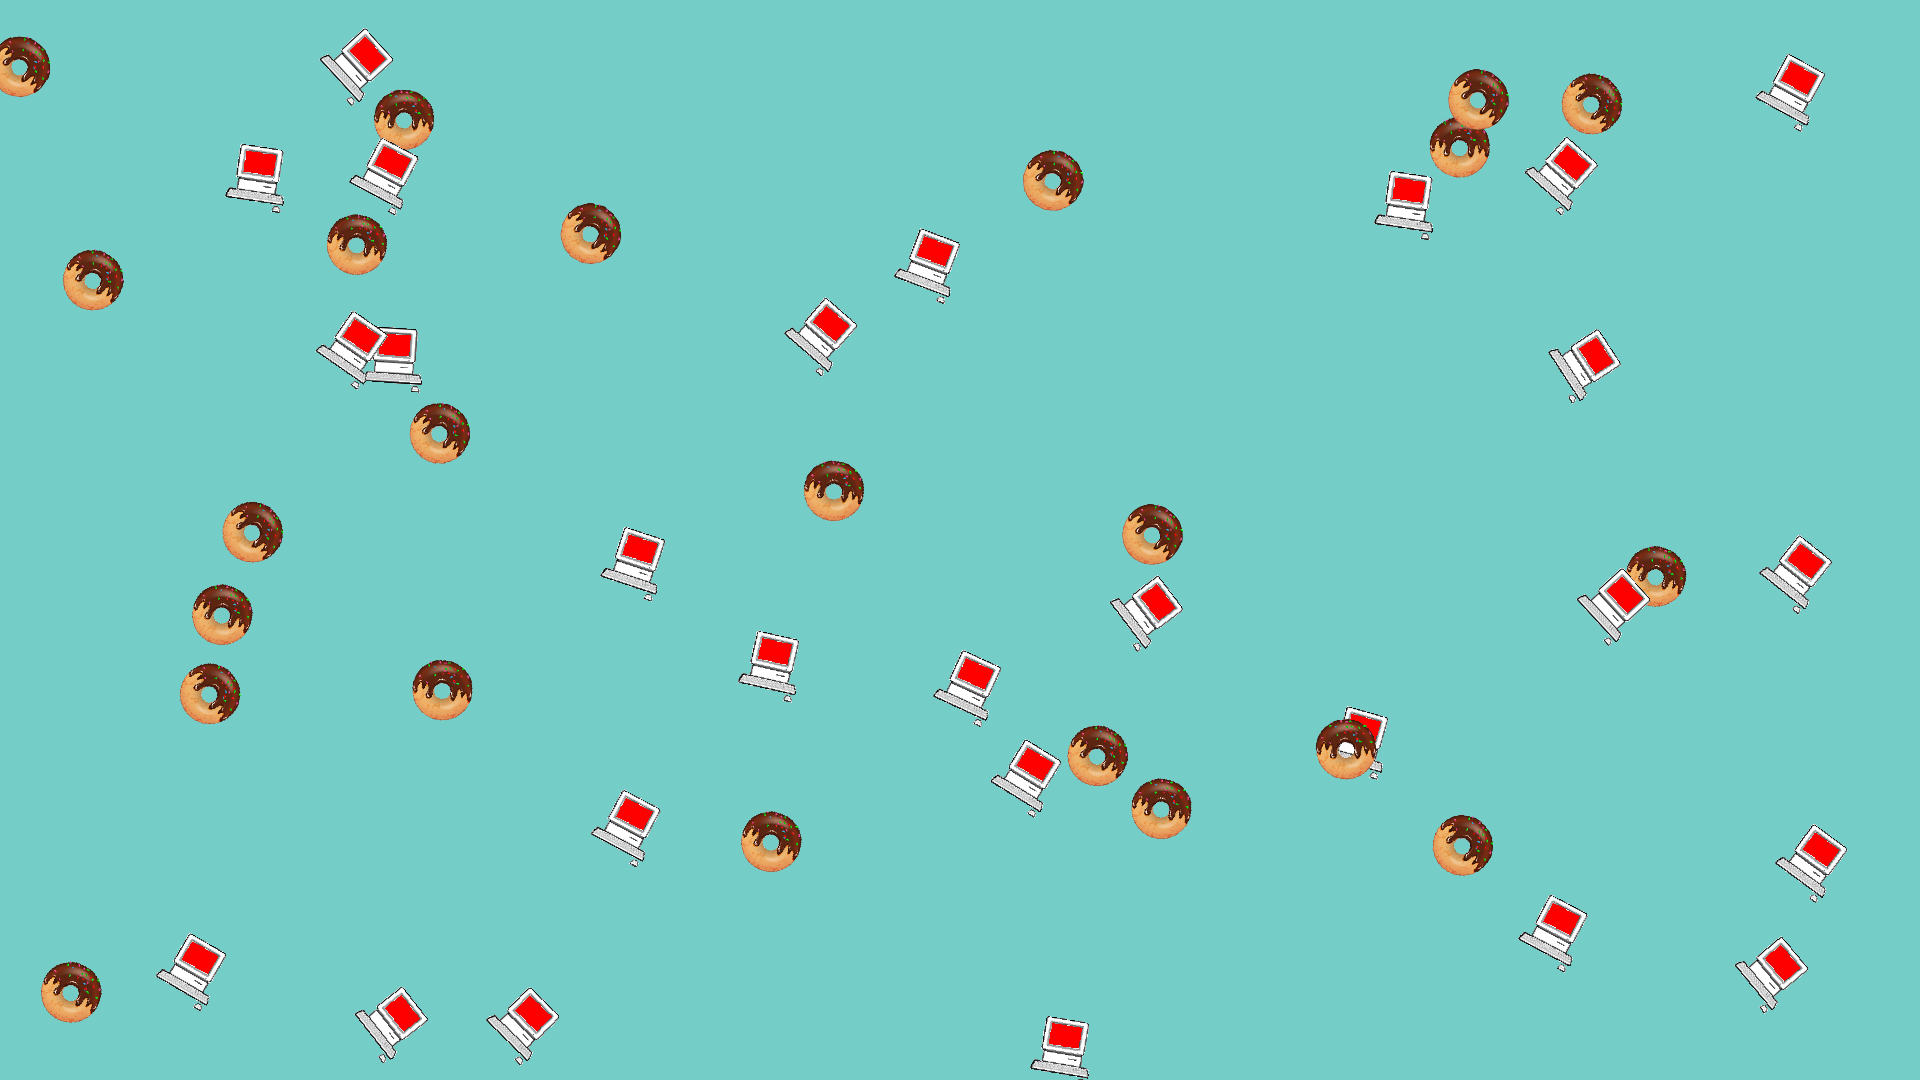
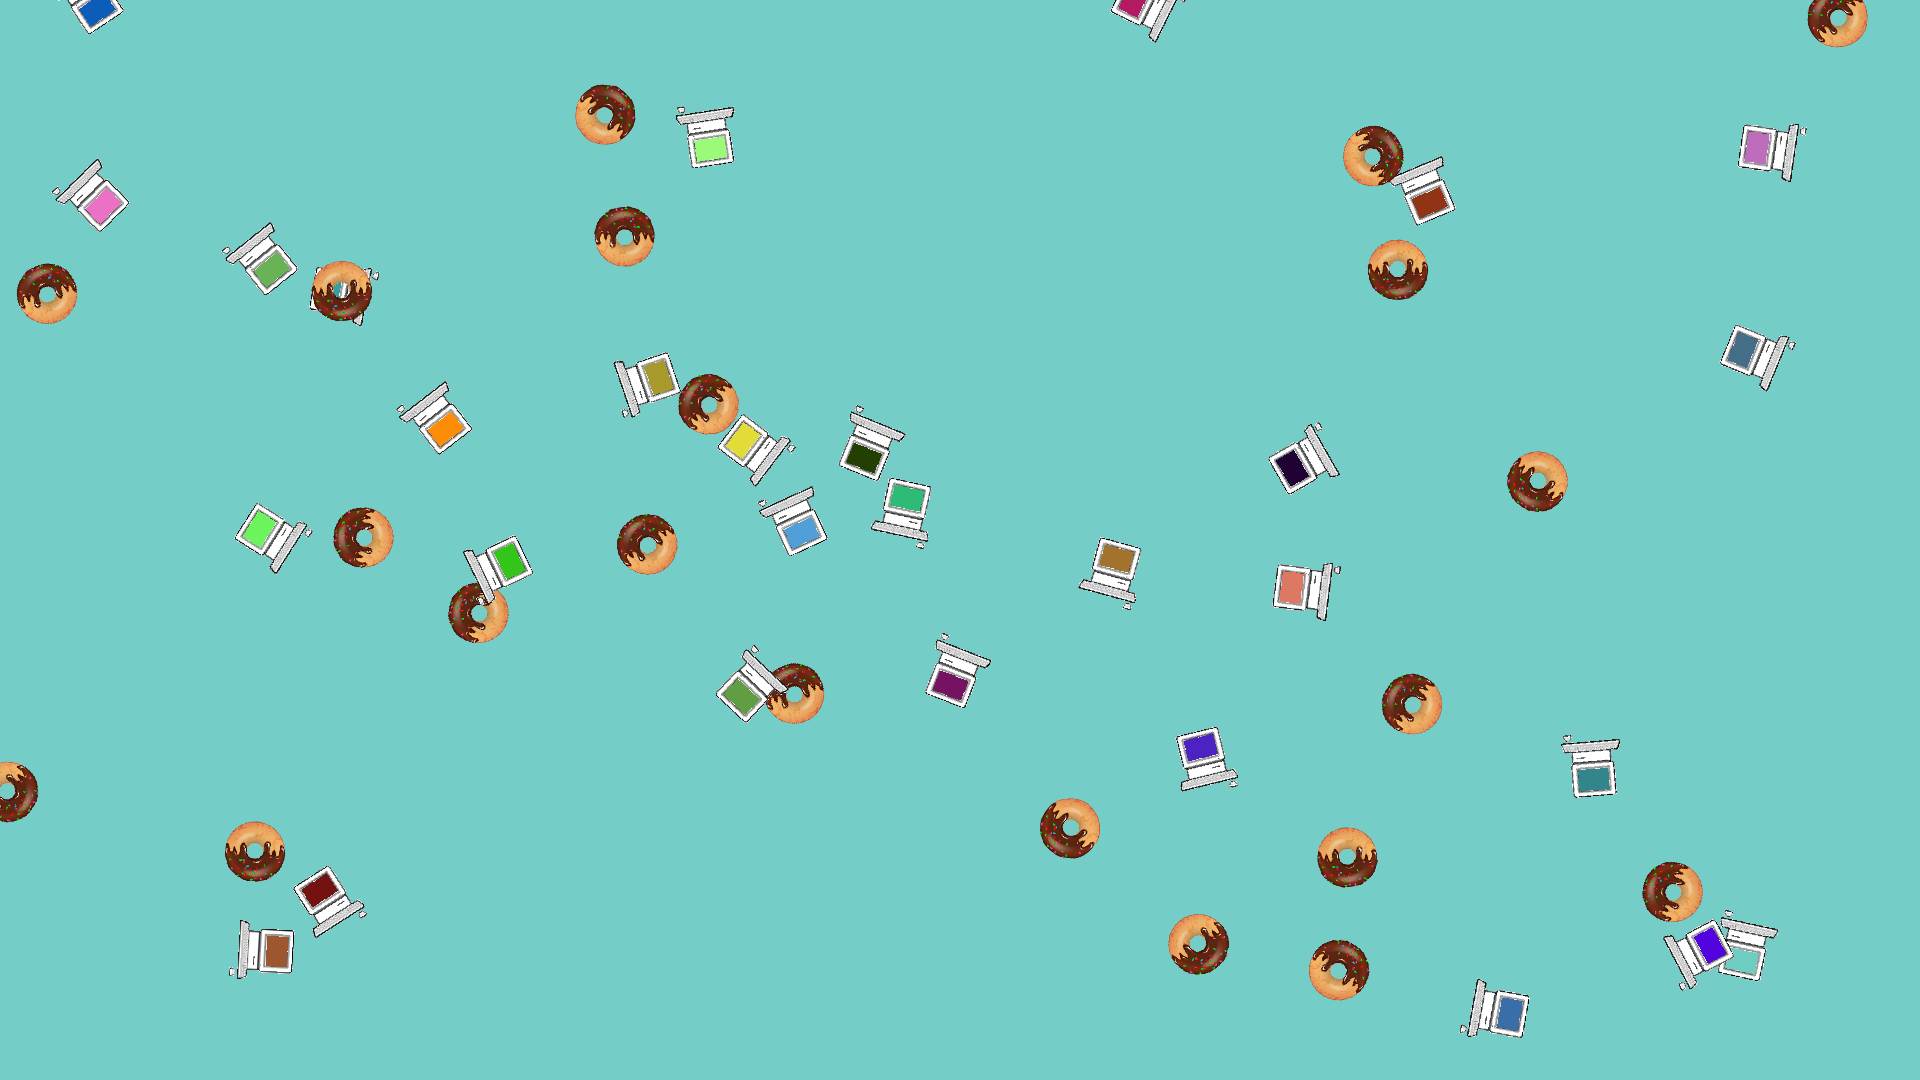
some quality changes to bg generation

diff --git a/site/Spelling-Bee.html b/site/Spelling-Bee.html
@@ -23,7 +23,7 @@
 
 <div class="content">
 <div id="spellingbee">
-Rules:<br><p>Using the below letters (mandatory + 6 optional), make as many words as you can. Words must be at least 5 letters long and must contain the mandatory letter. No letters can be used except the 7 given, but those 7 may be used any number of times per word. To score yourself, give yourself 1 point for every word and 2 additional points for each word that uses all 7 letters. Click the button to view answers. The rules of this game were shamelessly stolen from Frank Longo at the NYT Magazine. Puzzle is generated fresh every day (barring server failures)</p><br>D+SARGLU<br>Total Words: 18<br>Three Point Words: 2<br><br><button onclick='document.getElementById("answer").innerHTML="Total Words: 20<br>Three Point Words: 2<br>SLUGGARD<br>SLUGGARDS<br>Non-three-point-words:<br>DRAGS<br>DRUGS<br>DULLARD<br>DULLARDS<br>DULLS<br>GLADS<br>GRADS<br>GRADUAL<br>GUARD<br>GUARDS<br>LAGGARD<br>LAGGARDS<br>LARDS<br>LAUDS<br>RADAR<br>RADARS<br>SALAD<br>SALADS<br>"'>See answer</button>
+Rules:<br><p>Using the below letters (mandatory + 6 optional), make as many words as you can. Words must be at least 5 letters long and must contain the mandatory letter. No letters can be used except the 7 given, but those 7 may be used any number of times per word. To score yourself, give yourself 1 point for every word and 2 additional points for each word that uses all 7 letters. Click the button to view answers. The rules of this game were shamelessly stolen from Frank Longo at the NYT Magazine. Puzzle is generated fresh every day (barring server failures)</p><br>S+UCYKAB<br>Total Words: 24<br>Three Point Words: 1<br><br><button onclick='document.getElementById("answer").innerHTML="Total Words: 25<br>Three Point Words: 1<br>BUYBACKS<br>Non-three-point-words:<br>ABACUS<br>ABYSS<br>ASSAY<br>ASSAYS<br>BACKS<br>BASKS<br>BUCKS<br>BUSBY<br>CASABA<br>CASABAS<br>CASKS<br>CAUCUS<br>KAYAKS<br>SACKS<br>SASSY<br>SAUCY<br>SCABBY<br>SCABS<br>SCUBA<br>SCUBAS<br>SUCKS<br>YACKS<br>YUCCAS<br>YUCKS<br>"'>See answer</button>
 </div>
 <div id="answer">
 

diff --git a/src/rr/personal_website/BackgroundGenerator.java b/src/rr/personal_website/BackgroundGenerator.java
@@ -42,19 +42,35 @@ public class BackgroundGenerator {
 		
 		backgroundGraphics.setColor(new Color(117,205,200));
 		backgroundGraphics.fillRect(0, 0, width, height);
+		Random rand = new Random();
+		
 		for (int i = 0; i < 50; i++) {
-			
-			Random rand = new Random();
 			//Choose a small image
 			BufferedImage img = smalls.get(Math.abs(rand.nextInt()) % smalls.size());
+			BufferedImage imgColorized = new BufferedImage(img.getWidth(), img.getHeight(), img.getType());
+			int r = rand.nextInt(255);
+    		int g = rand.nextInt(255);
+    		int b = rand.nextInt(255);
+    		int randomColor = new Color(r,g,b).getRGB();
+			for (int w = 0; w < img.getWidth(); w++) {
+		        for (int h = 0; h < img.getHeight(); h++) {
+		        	int color = img.getRGB(w, h);
+		        	if (color == Color.red.getRGB()) {
+		        		imgColorized.setRGB(w, h, randomColor);
+		        	}
+		        	else {
+		        		imgColorized.setRGB(w, h, color);
+		        	}
+		        }
+		    }
 			int xPos = Math.abs(rand.nextInt()) % (width - (int)(img.getWidth()*SMALL_IMAGE_SCALE));
 			int yPos = Math.abs(rand.nextInt()) % (height - (int)(img.getHeight()*SMALL_IMAGE_SCALE));
-			double rotation = rand.nextDouble() % (2 * Math.PI);
+			double rotation = Math.toRadians(rand.nextInt(360));
 			AffineTransform at = new AffineTransform();
 			at.translate(xPos, yPos);
 			at.rotate(rotation);
 			at.scale(SMALL_IMAGE_SCALE,SMALL_IMAGE_SCALE);
-			backgroundGraphics.drawImage(img, at, null);
+			backgroundGraphics.drawImage(imgColorized, at, null);
 		}
 		
 		try {
